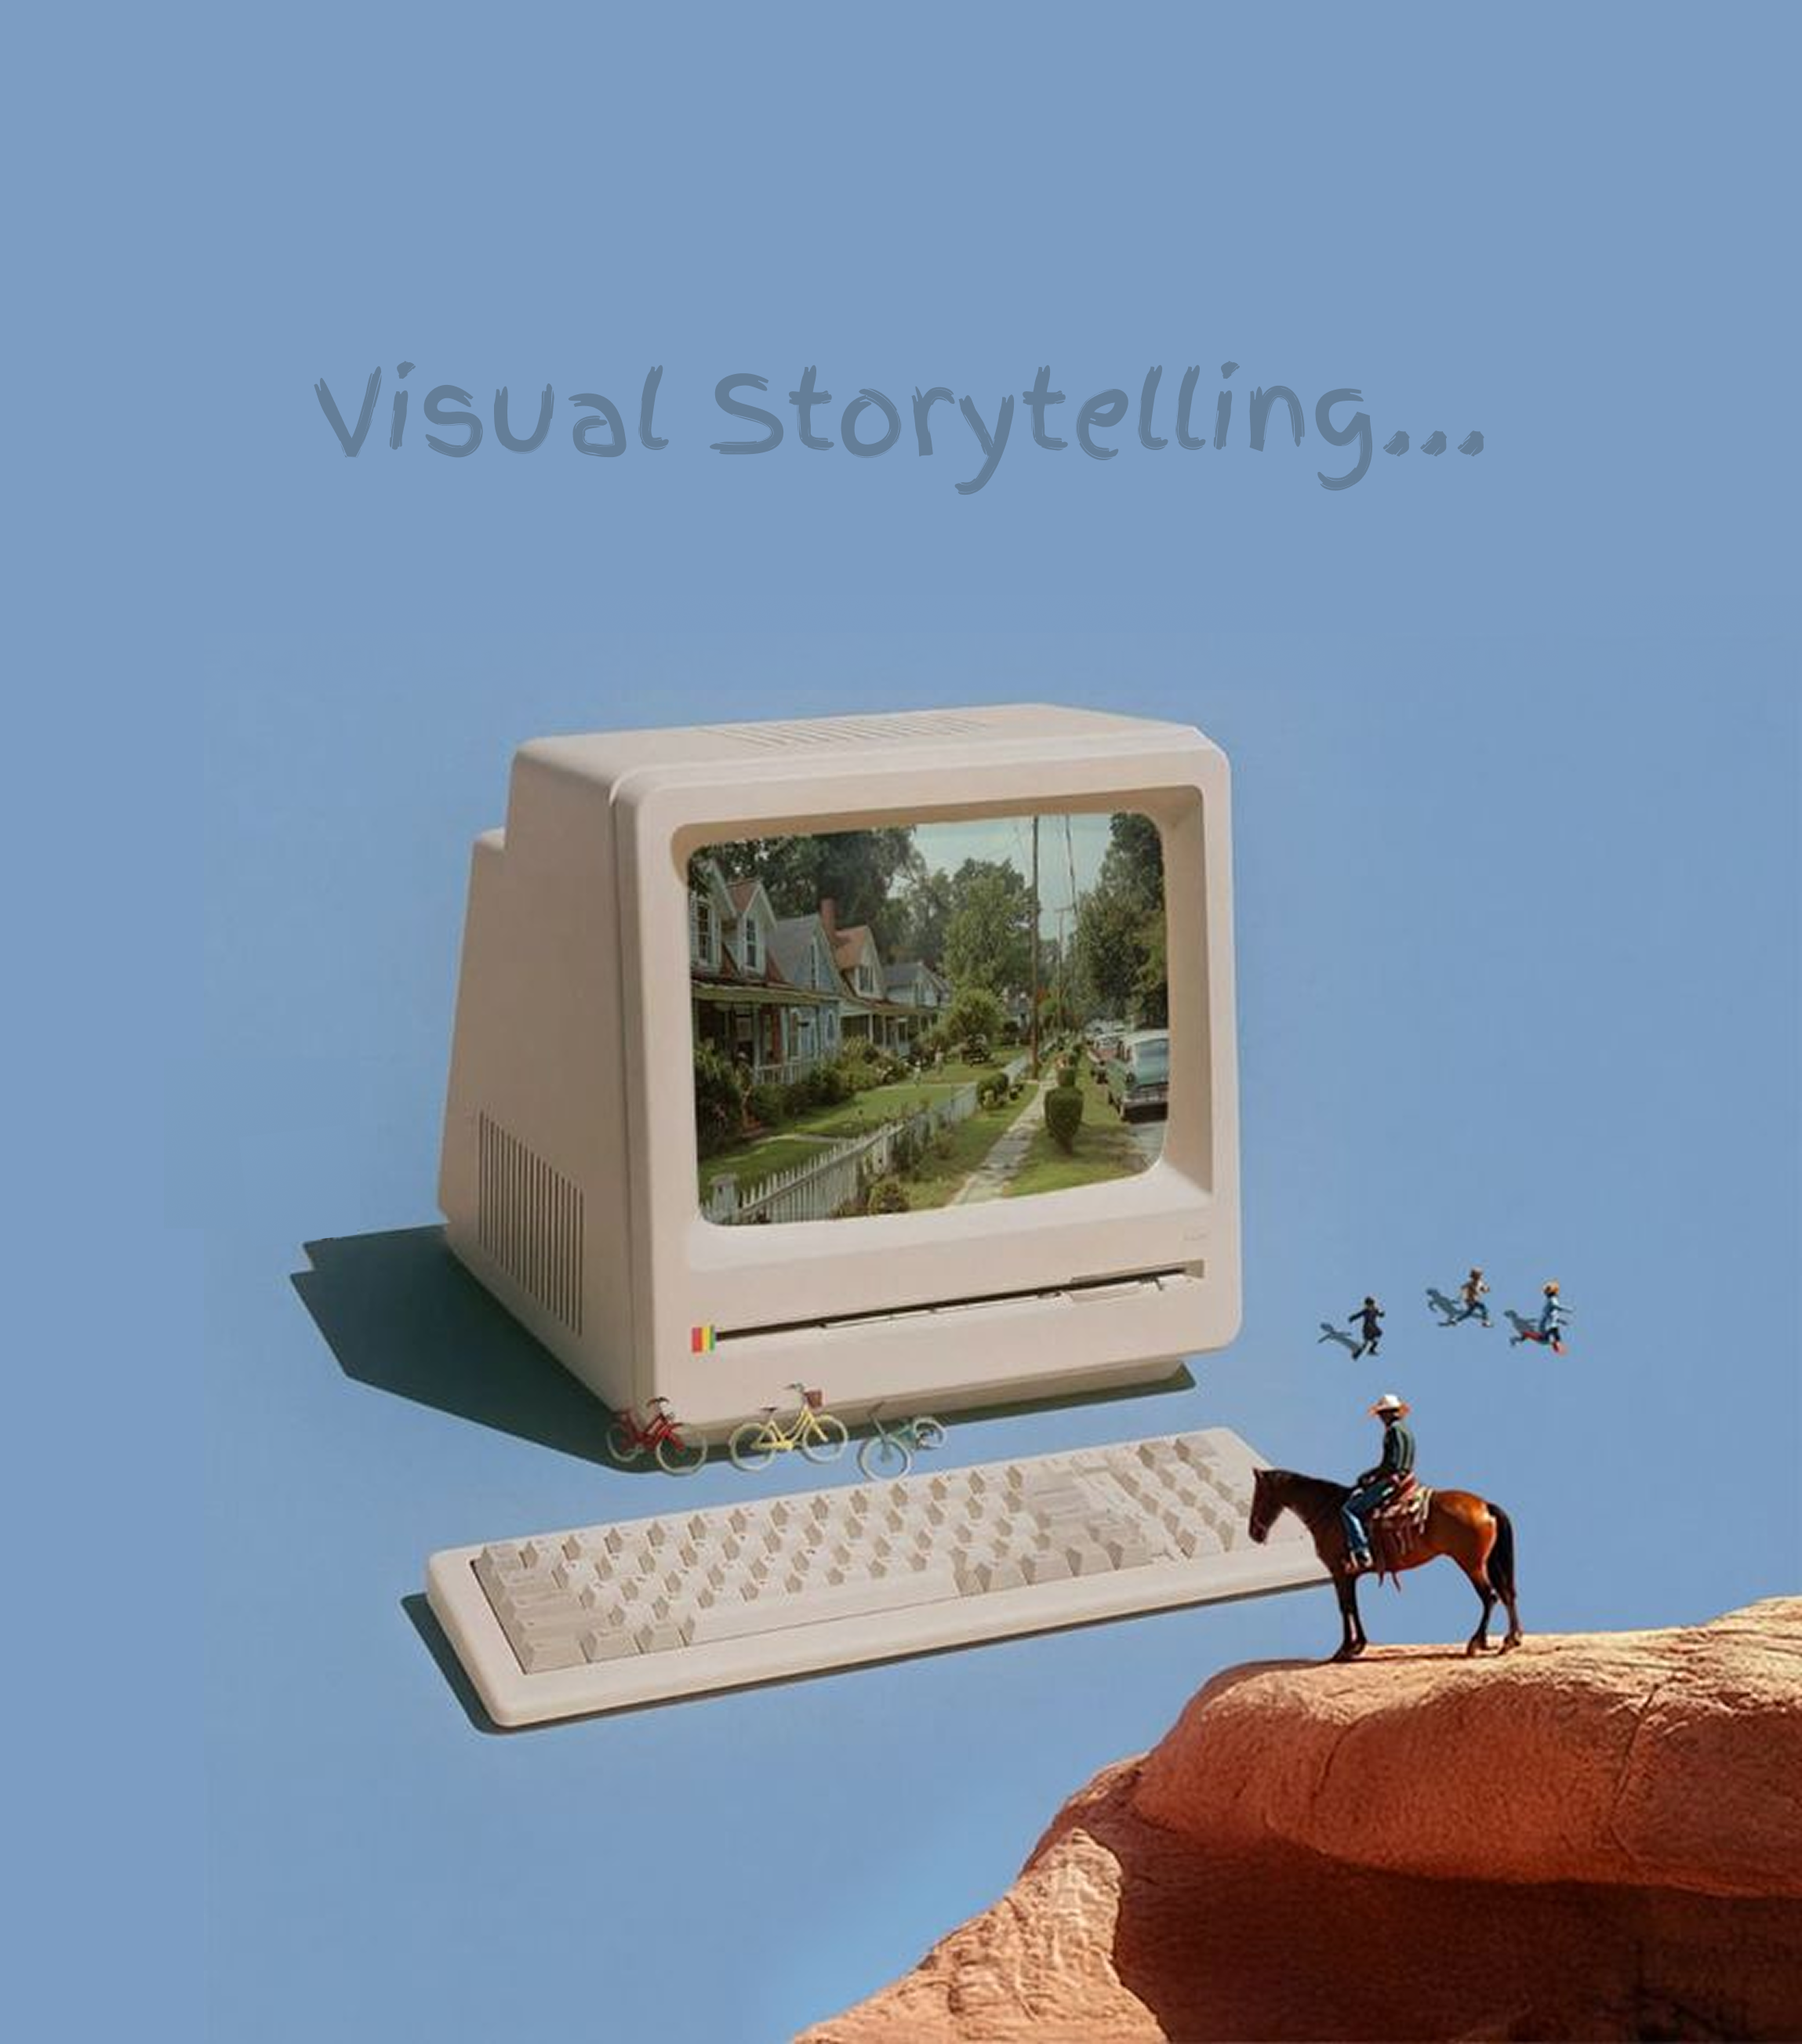
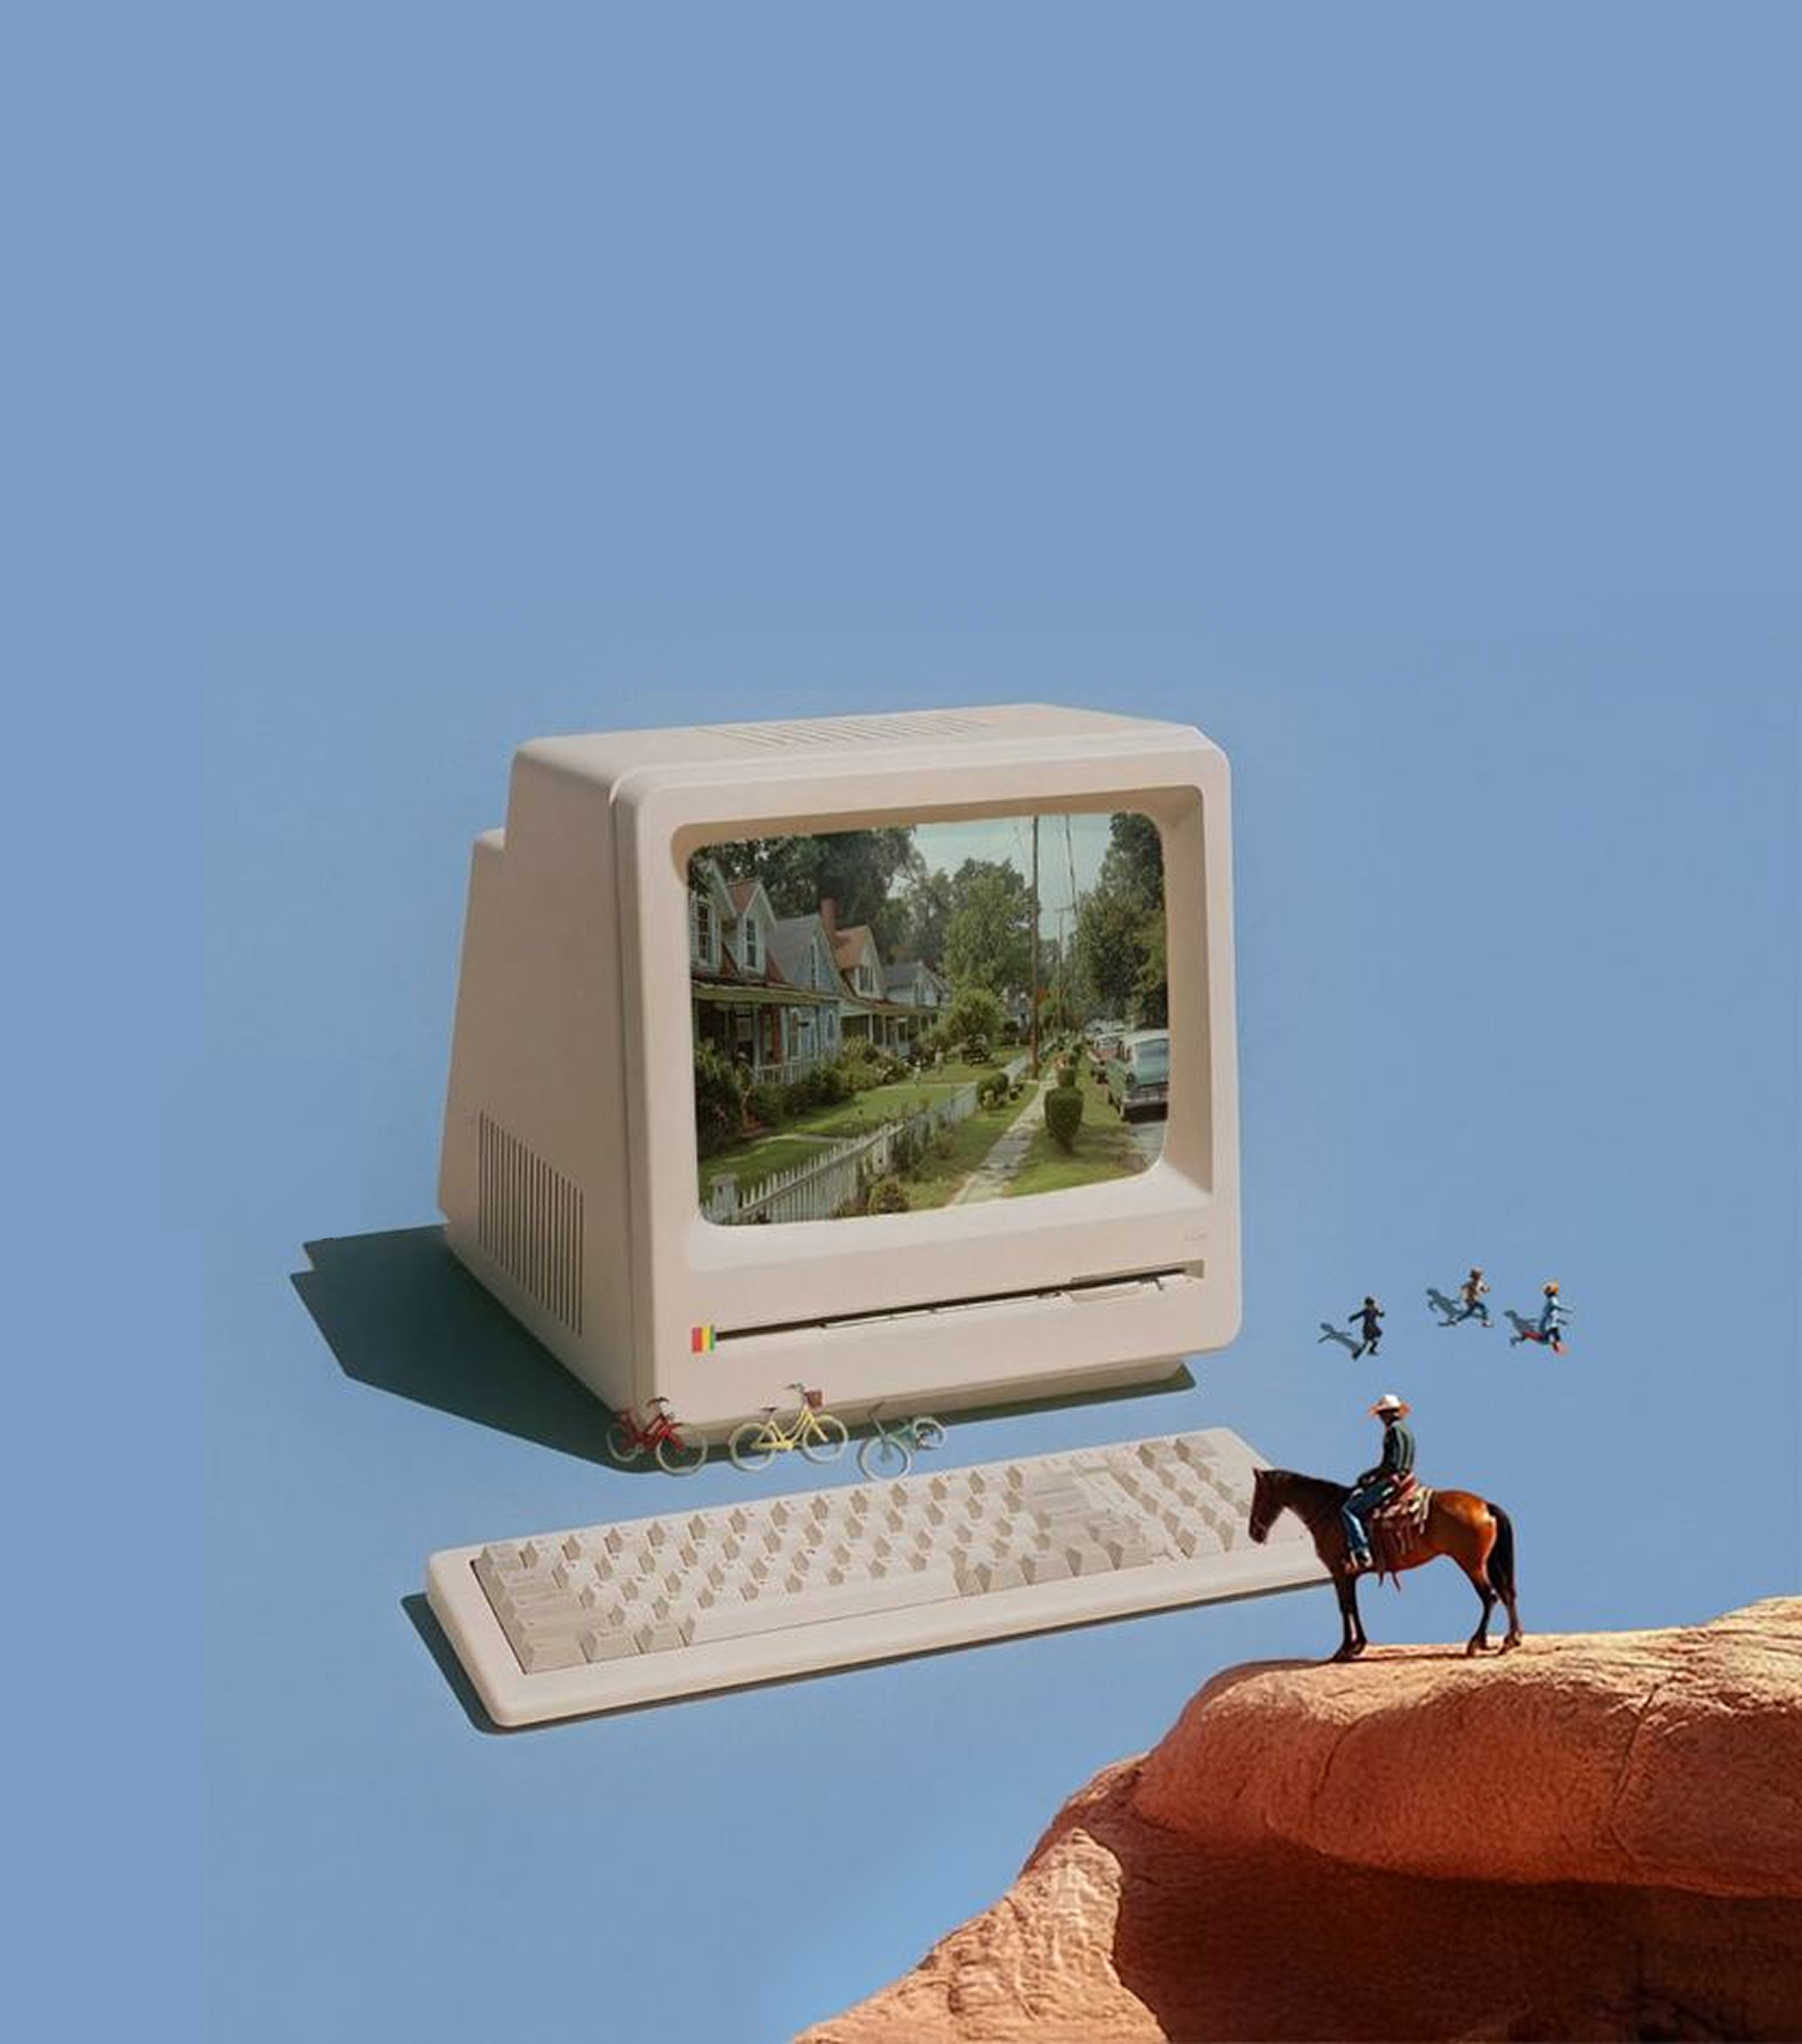
Rename magazine images and update designcover; reorder project cards
- magazine.png → mtcover.png, magazinecard.png → moneytreecard.png
- Update all HTML references accordingly
- Updated designcover.png asset
- Reorder project cards: 5Gum, SDU, Pattern Magazine, LoadUP, Meal Map, Film
- Pattern Magazine card thumb colour → #476C28

Changed region(s): [[0.4017, 0.1864, 0.8033, 0.2486], [0.1545, 0.1864, 0.3708, 0.2486]]

diff --git a/index.html b/index.html
@@ -881,14 +881,14 @@
             <div class="sc-carousel-item"><img src="images/5gum.png" alt="5Gum Rebrand" /></div>
             <div class="sc-carousel-item"><img src="images/loadup.png" alt="LoadUP" /></div>
             <div class="sc-carousel-item"><img src="images/sdcover.png" alt="Service Design Uno" /></div>
-            <div class="sc-carousel-item"><img src="images/magazine.png" alt="Magazine" /></div>
+            <div class="sc-carousel-item"><img src="images/mtcover.png" alt="Magazine" /></div>
             <div class="sc-carousel-item"><img src="images/designcover.png" alt="Designer Cover" /></div>
             <div class="sc-carousel-item"><img src="images/mealmap.png" alt="Meal Map" /></div>
             <!-- duplicated for seamless loop -->
             <div class="sc-carousel-item"><img src="images/5gum.png" alt="5Gum Rebrand" /></div>
             <div class="sc-carousel-item"><img src="images/loadup.png" alt="LoadUP" /></div>
             <div class="sc-carousel-item"><img src="images/sdcover.png" alt="Service Design Uno" /></div>
-            <div class="sc-carousel-item"><img src="images/magazine.png" alt="Magazine" /></div>
+            <div class="sc-carousel-item"><img src="images/mtcover.png" alt="Magazine" /></div>
             <div class="sc-carousel-item"><img src="images/designcover.png" alt="Designer Cover" /></div>
             <div class="sc-carousel-item"><img src="images/mealmap.png" alt="Meal Map" /></div>
           </div>
@@ -954,6 +954,11 @@
           <div class="project-thumb pt-b"></div>
           <div class="project-body"><p class="project-tag">Product Design · Card Game</p><h3>Service Design Uno</h3><p>An educational card game that teaches service design principles — built for 3–8 players in 30–45 minutes.</p></div>
         </a>
+        <a class="project-card magazine-card" href="#">
+          <img class="magazine-card-hover-img" src="images/moneytreecard.png" alt="" />
+          <div class="project-thumb" style="background:#476C28;"></div>
+          <div class="project-body"><p class="project-tag">Editorial Design · GBDA Magazine</p><h3>Pattern Magazine</h3><p>This editorial magazine explores the quiet beauty of patterns woven into everyday life, turning overlooked objects into something intentional and visually striking.</p></div>
+        </a>
         <a class="project-card loadup-card" href="javascript:void(0)" onclick="openProject('loadup')">
           <img class="loadup-card-hover-img" src="images/loadupcard.png" alt="" />
           <div class="project-thumb" style="background:#63A7CD;"></div>
@@ -963,11 +968,6 @@
           <img class="mealmap-card-hover-img" src="images/mealmapcard.png" alt="" />
           <div class="project-thumb" style="background:#A2C496;"></div>
           <div class="project-body"><p class="project-tag">UX Design · Mobile App · Prototype</p><h3>Meal Map</h3><p>A prototype app helping students navigate university cafeterias safely through a standardized, reliable system for allergy communication, management, and education.</p></div>
-        </a>
-        <a class="project-card magazine-card" href="#">
-          <img class="magazine-card-hover-img" src="images/magazinecard.png" alt="" />
-          <div class="project-thumb" style="background:#614A36;"></div>
-          <div class="project-body"><p class="project-tag">Editorial Design · GBDA Magazine</p><h3>Pattern Magazine</h3><p>This editorial magazine explores the quiet beauty of patterns woven into everyday life, turning overlooked objects into something intentional and visually striking.</p></div>
         </a>
         <a class="project-card" href="#">
           <div class="project-thumb" style="background:#6B6B6B;"></div>
